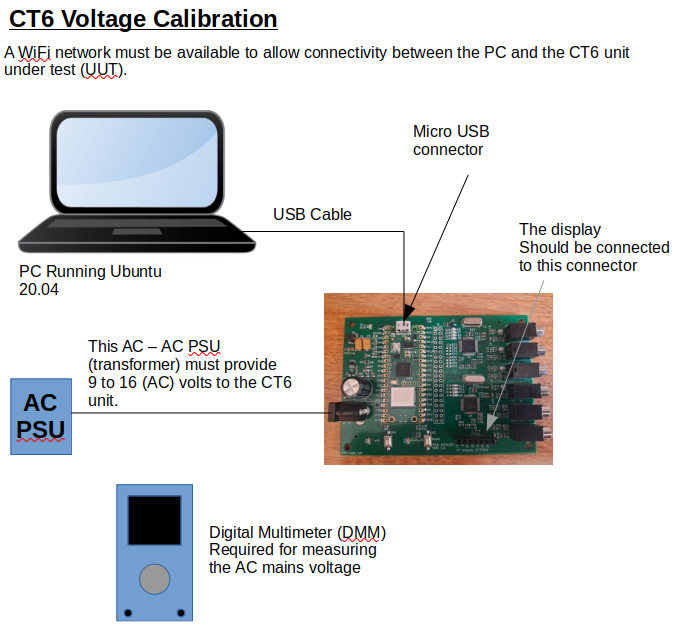
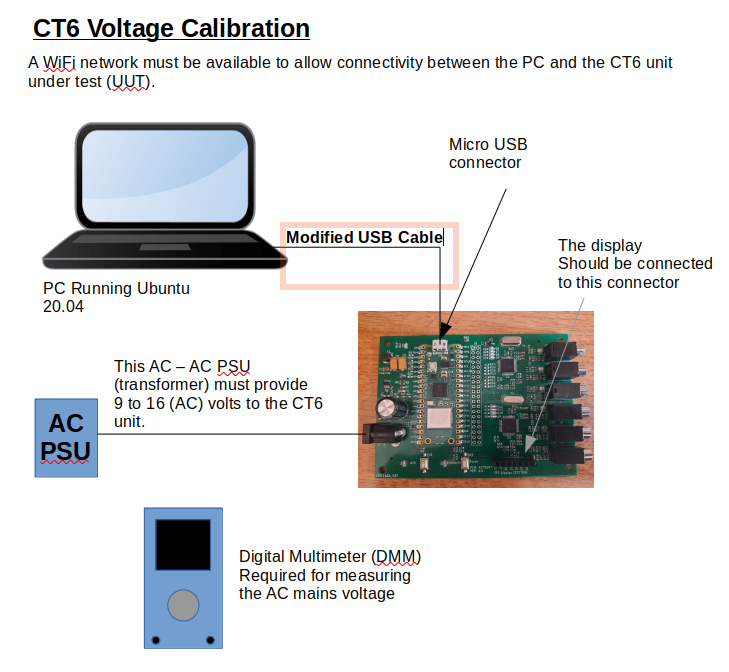
Update documentation WRT the USB cable used. The USB cable must have the +5v power lead disconnected. Usually the +5v power lead is red. This lead must be cut in the USB cable used so that the Pico W is powered from the CT6 PSU and from the USB port.
If this is not cut then the testing will fail because the
Pico W will not power cycle when the CT6 power turns off.

diff --git a/software/ct6_app_server/README_MFG.md b/software/ct6_app_server/README_MFG.md
@@ -2,7 +2,7 @@
 This document details how to install the software onto the RPi Pico W on the CT6 unit, test it and calibrate it.
 
 ## Installation of SW
-To use the tools to test and calibrate a CT6 unit the Linux package must be installed. 
+To use the tools to test and calibrate a CT6 unit the Linux package must be installed.
 This installer has to be built first. To build the installer perform the following
 
 ```
@@ -74,7 +74,7 @@ Using /usr/local/bin/python3.9 (3.9.8) to create virtualenv...
     added seed packages: pip==23.3.2, setuptools==68.2.2, wheel==0.42.0
   activators BashActivator,CShellActivator,FishActivator,PowerShellActivator,PythonActivator,XonshActivator
 
-✔ Successfully created virtual environment! 
+✔ Successfully created virtual environment!
 Virtualenv location: /usr/local/bin/python-ct6-apps.pipenvpkg/.venv
 Installing dependencies from Pipfile.lock (7b1881)...
   🐍   ▉▉▉▉▉▉▉▉▉▉▉▉▉▉▉▉▉▉▉▉▉▉▉▉▉▉▉▉▉▉▉▉ 41/41 — 00:00:19
@@ -100,7 +100,7 @@ Alternatively, run a command inside the virtualenv with pipenv run.
 ### Equipment required
 - CT6 unit hardware (CT6 board with display connected).
 - CT6 AC power supply.
-- Micro USB cable.
+- Modified micro USB cable. This cable must have the +5v power lead disconnected. This is normally the red wire in the 4 wire USB cable.
 - AC power meter.
   [E.G ENERGENIE ENE007](https://energenie4u.co.uk/catalogue/product/ENER007)). However it should be noted that the accuracy of this device will govern the CT6 calibration accuracy.
 - Linux PC running Ubuntu 20.04 or later.
@@ -550,7 +550,7 @@ The CT6 unit is now ready for use. See the README.md file for more information o
 ### Equipment required
 - CT6 unit hardware (CT6 board with display connected).
 - CT6 AC power supply.
-- Micro USB cable.
+- Modified micro USB cable. This cable must have the +5v power lead disconnected. This is normally the red wire in the 4 wire USB cable.
 
 The equipment should be connected as per the diagram shown below.
 
@@ -563,7 +563,7 @@ The equipment should be connected as per the diagram shown below.
 This section details how to fully wipe and reload the code on the Pico W and then reload the factory configuration file.
 
 - The steps below show will load all code onto the CT6 unit and test it. You must run the ct6_mfg_tool in the software/ct6_app_server folder. Note that '<YOUR WIFI SSID>' and '<YOUR WIFI PASSWORD>' should be replaced with your WiFi SSID and password.
-  
+
 ```
 ct6_mfg_tool --no_cal
 INPUT: The local WiFi SSID: : <YOUR WIFI SSID>
@@ -818,9 +818,18 @@ INFO:  Loaded the factory.cfg data to the CT6 board.
 The CT6 unit is now ready for use. See the README.md file for more information on this.
 
 ## Calibrating the AC voltage
+
+### Equipment required
+- CT6 unit hardware (CT6 board with display connected).
+- CT6 AC power supply.
+- Modified micro USB cable. This cable must have the +5v power lead disconnected. This is normally the red wire in the 4 wire USB cable.
+- A digital multimeter (DMM) capable of reading the AC mains voltage.
+
+### Performing the AC mains voltage calibration
+
 If you have a AC-AC power supply that is not the one detailed in the hardware/README.md file then this section can be used to update the voltage calibration after the calibration file has been loaded as detailed in the previous section.
 
-The test system can be setup as per the previous section with the addition of meter to measure the mains AC voltage. 
+The test system can be setup as per the previous section with the addition of meter to measure the mains AC voltage.
 
 Note !!!
 As mains voltage is dangerous ensure that the wiring is safe to allow the AC voltage to be measured.
@@ -874,4 +883,3 @@ INFO:  Saving the factory configuration file to the CT6 unit.
 ```
 
 The CT6 unit is now ready for use. See the README.md file for more information on this.
-
